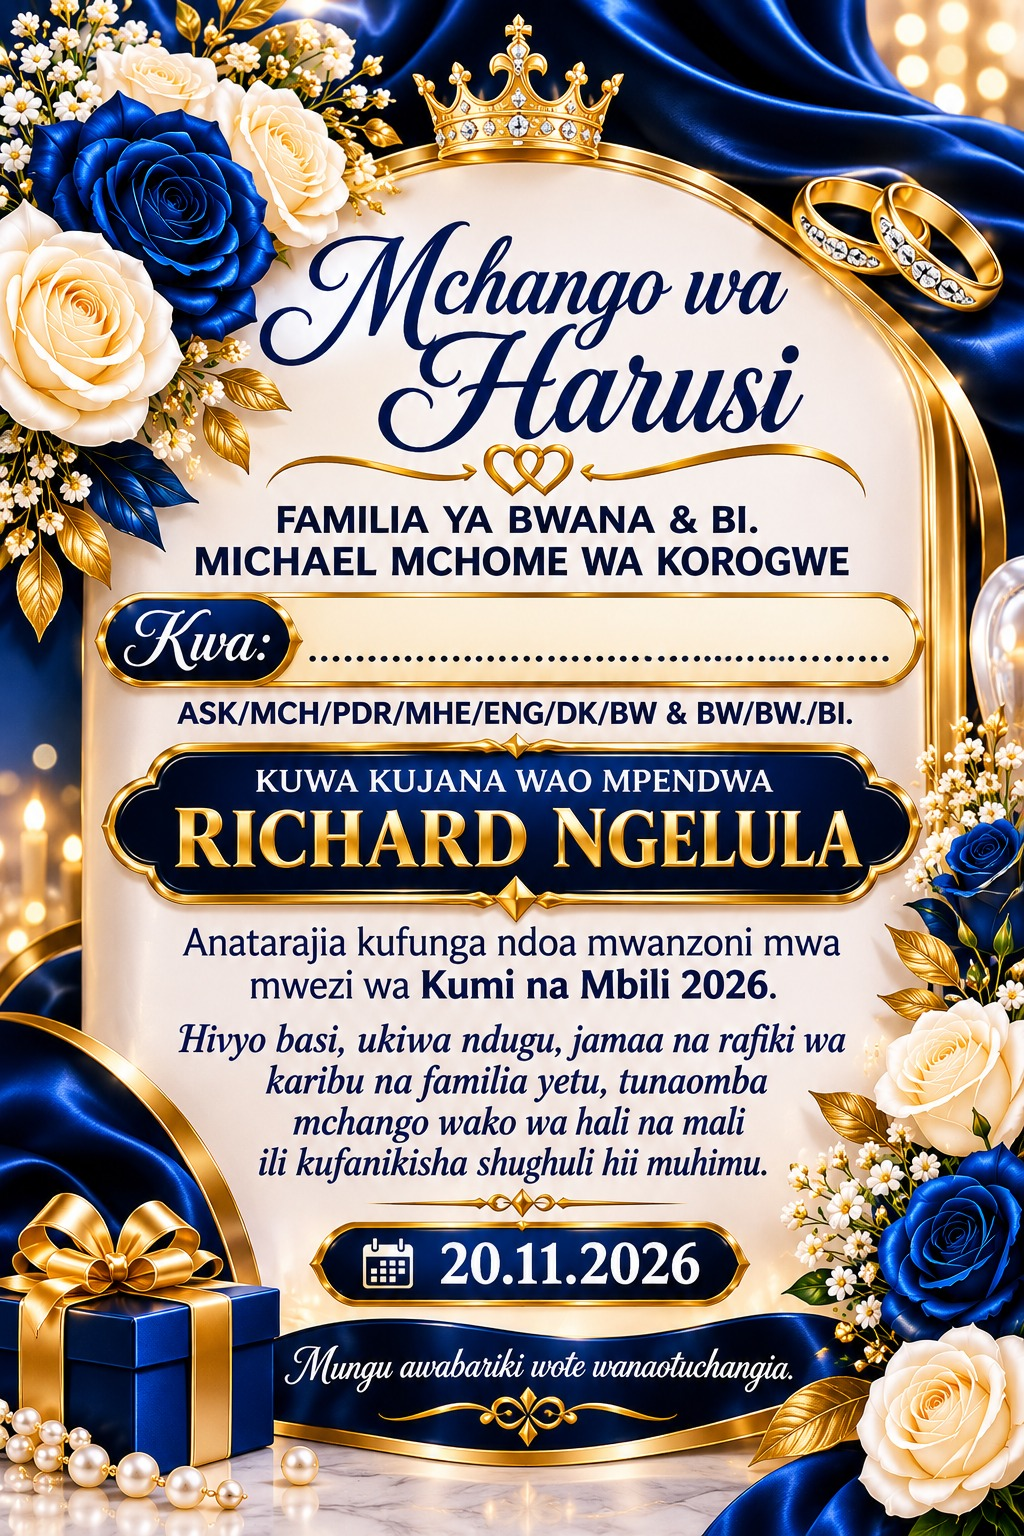
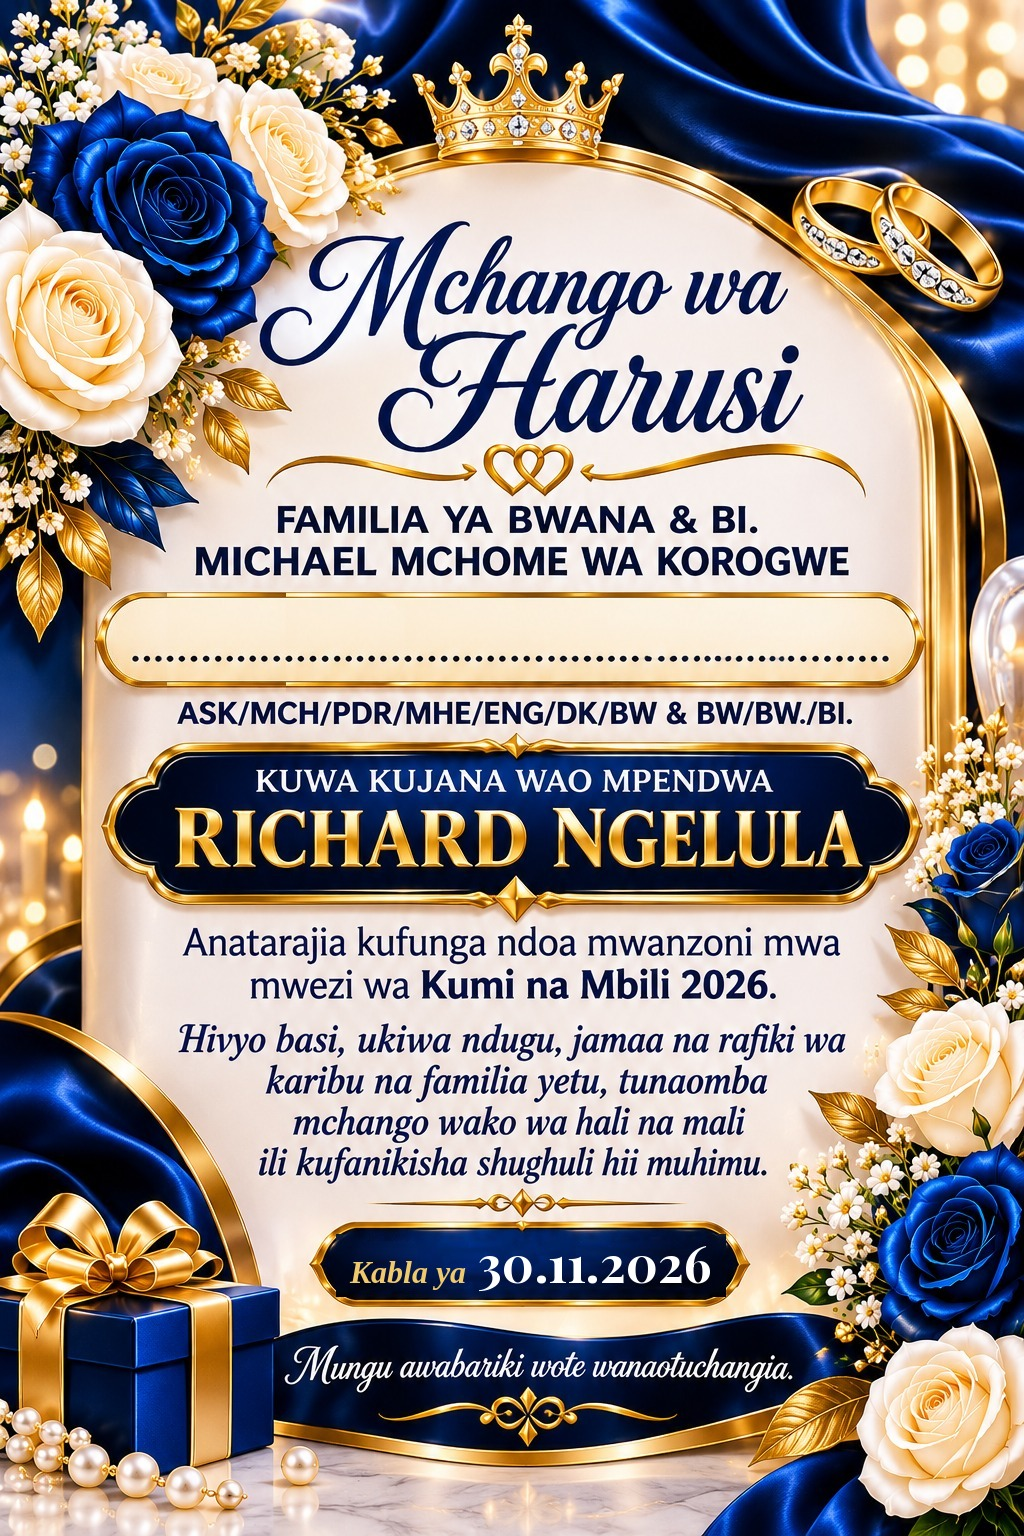
Ondoa 'Kwa:' kwenye kadi ya bluu na weka tarehe 30.11.2026
- Mstari wa jina sasa unaenea kadi nzima; jina limesogezwa katikati
- Kadi ya bluu: 'Kabla ya 30.11.2026'
- Kadi ya maua: tarehe 30.11.2026

Claude-Session: https://claude.ai/code/session_01GFUFTGEB9Fuie8fYEHjTgy

Changed region(s): [[0.0938, 0.375, 0.3125, 0.4688], [0.3438, 0.7812, 0.6875, 0.8438]]

diff --git a/app.html b/app.html
@@ -119,7 +119,7 @@ input[type=range]{flex:1;accent-color:var(--gold)}
 <script>
 // Mipangilio ya kila kadi. x,y ni sehemu ya upana/urefu wa picha (0..1); y ni mstari wa chini wa herufi.
 const PRESETS = {
-  bluu: {src:"templates/bluu.jpg", x:598/1024, y:646/1536, size:54, maxW:560/1024, font:"Great Vibes", color:"#0d1b4d"},
+  bluu: {src:"templates/bluu.jpg", x:511/1024, y:646/1536, size:56, maxW:740/1024, font:"Great Vibes", color:"#0d1b4d"},
   maua: {src:"templates/maua.jpg", x:550/1046, y:517/1504, size:38, maxW:560/1046, font:"Montserrat|800", color:"#0b3d91"},
 };
 const SAMPLE = ["Bw. & Bi. John Mushi","Dkt. Neema Mollel","Mch. Peter Kimaro","Eng. Asha Said","Bi. Rehema Juma"].join("\n");
@@ -180,7 +180,7 @@ async function selectTpl(id){
   syncControls(); render(); save();
 }
 
-function save(){ store.set("kadi.names", $("#names").value); store.set("kadi.cfg", JSON.stringify({tpl:state.tpl, bluu:state.cfg.bluu, maua:state.cfg.maua})); }
+function save(){ store.set("kadi.names", $("#names").value); store.set("kadi.cfg.v2", JSON.stringify({tpl:state.tpl, bluu:state.cfg.bluu, maua:state.cfg.maua})); }
 
 // Kuhifadhi faili: ndani ya Claude tunatumia uwezo wa "downloads"; nje tunatumia kiungo cha kawaida
 let dl;
@@ -277,7 +277,7 @@ cv.addEventListener("pointerup", ()=>{ dragging=false; cv.classList.remove("drag
 (function init(){
   state.cfg = {bluu:{...PRESETS.bluu}, maua:{...PRESETS.maua}};
   try{
-    const saved = JSON.parse(store.get("kadi.cfg")||"null");
+    const saved = JSON.parse(store.get("kadi.cfg.v2")||"null");
     if(saved){ ["bluu","maua"].forEach(k=>{ if(saved[k]) Object.assign(state.cfg[k], saved[k], {src:PRESETS[k].src}); }); if(saved.tpl in PRESETS) state.tpl = saved.tpl; }
   }catch{}
   $("#names").value = store.get("kadi.names") ?? SAMPLE;

diff --git a/index.html b/index.html
@@ -126,7 +126,7 @@ input[type=range]{flex:1;accent-color:var(--gold)}
 <script>
 // Mipangilio ya kila kadi. x,y ni sehemu ya upana/urefu wa picha (0..1); y ni mstari wa chini wa herufi.
 const PRESETS = {
-  bluu: {src:"templates/bluu.jpg", x:598/1024, y:646/1536, size:54, maxW:560/1024, font:"Great Vibes", color:"#0d1b4d"},
+  bluu: {src:"templates/bluu.jpg", x:511/1024, y:646/1536, size:56, maxW:740/1024, font:"Great Vibes", color:"#0d1b4d"},
   maua: {src:"templates/maua.jpg", x:550/1046, y:517/1504, size:38, maxW:560/1046, font:"Montserrat|800", color:"#0b3d91"},
 };
 const SAMPLE = ["Bw. & Bi. John Mushi","Dkt. Neema Mollel","Mch. Peter Kimaro","Eng. Asha Said","Bi. Rehema Juma"].join("\n");
@@ -187,7 +187,7 @@ async function selectTpl(id){
   syncControls(); render(); save();
 }
 
-function save(){ store.set("kadi.names", $("#names").value); store.set("kadi.cfg", JSON.stringify({tpl:state.tpl, bluu:state.cfg.bluu, maua:state.cfg.maua})); }
+function save(){ store.set("kadi.names", $("#names").value); store.set("kadi.cfg.v2", JSON.stringify({tpl:state.tpl, bluu:state.cfg.bluu, maua:state.cfg.maua})); }
 
 // Kuhifadhi faili: ndani ya Claude tunatumia uwezo wa "downloads"; nje tunatumia kiungo cha kawaida
 let dl;
@@ -284,7 +284,7 @@ cv.addEventListener("pointerup", ()=>{ dragging=false; cv.classList.remove("drag
 (function init(){
   state.cfg = {bluu:{...PRESETS.bluu}, maua:{...PRESETS.maua}};
   try{
-    const saved = JSON.parse(store.get("kadi.cfg")||"null");
+    const saved = JSON.parse(store.get("kadi.cfg.v2")||"null");
     if(saved){ ["bluu","maua"].forEach(k=>{ if(saved[k]) Object.assign(state.cfg[k], saved[k], {src:PRESETS[k].src}); }); if(saved.tpl in PRESETS) state.tpl = saved.tpl; }
   }catch{}
   $("#names").value = store.get("kadi.names") ?? SAMPLE;
